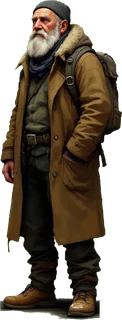
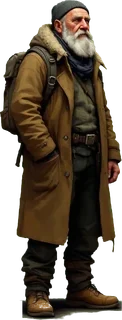
Face painted figures the way they walk, name your own survivor, and let people be clicked to talk
Three player figures were painted facing left while the scene assumes
right, so they walked backwards; they are mirrored to match. Your own
survivor now carries your name like everyone else, and clicking (or Enter
on) any person makes them say a line, or have a short exchange with
whoever else is home. Lines are fixed text chosen in the browser; nothing
about the game changes.

diff --git a/src/scene.ts b/src/scene.ts
@@ -27,7 +27,7 @@ export interface SceneModel {
   items: { food: number; water: number; scrap: number };
   tank: number;
   greenhouse: { lit: boolean; plots: PlotLook[] };
-  // On a visit: the owner's name over their survivor, and you, let in
+  // The owner's name over their survivor; on a visit, also you, let in
   // through the hatch while they're home.
   people?: { owner: string; guest: boolean; guestPortrait?: number };
   // The portrait the player picked, which picks their painted figure.
@@ -404,11 +404,11 @@ const paintedBody = (key: string) => SURVIVOR.replace(
 // A survivor, optionally with a name tag that hides while they speak. The
 // tag is sized roughly here and exactly by scene.js. `who` names a resident
 // (for their lines); `paint` picks a painted figure, or the drawn one.
-function survivor(cls: string, x: number, y: number, name?: string, who?: string, paint?: string): string {
+function survivor(cls: string, x: number, y: number, name?: string, who?: string, paint?: string, talk?: string): string {
   const tag = name
     ? `<g class="sv-tag"><rect x="${-(name.length * 3.6 + 7)}" y="-86" width="${name.length * 7.2 + 14}" height="17" rx="4"/><text x="0" y="-74" text-anchor="middle">${escapeText(name)}</text></g>`
     : "";
-  return `<g class="${cls}${paint ? " sv--painted" : ""}"${who ? ` data-who="${who}"` : ""} data-x="${x}" data-y="${y}" transform="translate(${x} ${y})">${paint ? paintedBody(paint) : SURVIVOR}${tag}</g>`;
+  return `<g class="${cls}${paint ? " sv--painted" : ""}"${who ? ` data-who="${who}"` : ""}${talk ? ` data-talk="${talk}"` : ""} data-x="${x}" data-y="${y}" transform="translate(${x} ${y})"><rect class="sv-hit" x="-22" y="-70" width="44" height="72"/>${paint ? paintedBody(paint) : SURVIVOR}${tag}</g>`;
 }
 
 // The painted ladder tile holds three rungs; stretched a little so they're a
@@ -493,11 +493,11 @@ ${r.facility?`<g class="sc-room-label"><rect x="${r.x+6}" y="${r.y+6}" width="11
   <g class="eq-hatch" transform="translate(${L.spot.hatch!.x+40} ${L.floors.surface}) scale(-1 1)">${hatchArt(m.sealed,m.tiers?.gate??1,m.doorCondition??1)}</g>
   <g class="sc-visitors" aria-hidden="true"></g>
   ${
-    m.occupied ? survivor("sv", start.x, L.floors[start.floor], m.people?.owner, undefined, m.portrait ? playerFigure(m.portrait) : undefined) : ""
+    m.occupied ? survivor("sv", start.x, L.floors[start.floor], m.people?.owner, undefined, m.portrait ? playerFigure(m.portrait) : undefined, m.residents ? "you" : "host") : ""
   }
-  ${m.occupied && m.people?.guest ? survivor("sv sv--guest", L.spot.hatch!.x, L.floors.surface, "You", undefined, m.people.guestPortrait ? playerFigure(m.people.guestPortrait) : undefined) : ""}
-  ${m.residents?.includes("toby") ? survivor("sv sv--resident sv--toby", L.spot.purifier!.x, L.floors[L.spot.purifier!.floor], "Toby", "toby", "toby") : ""}
-  ${m.residents?.includes("mags") ? survivor("sv sv--resident sv--mags", L.spot.scrap!.x, L.floors[L.spot.scrap!.floor], "Mags", "mags", "mags") : ""}
+  ${m.occupied && m.people?.guest ? survivor("sv sv--guest", L.spot.hatch!.x, L.floors.surface, "You", undefined, m.people.guestPortrait ? playerFigure(m.people.guestPortrait) : undefined, "guest") : ""}
+  ${m.residents?.includes("toby") ? survivor("sv sv--resident sv--toby", L.spot.purifier!.x, L.floors[L.spot.purifier!.floor], "Toby", "toby", "toby", "toby") : ""}
+  ${m.residents?.includes("mags") ? survivor("sv sv--resident sv--mags", L.spot.scrap!.x, L.floors[L.spot.scrap!.floor], "Mags", "mags", "mags", "mags") : ""}
   ${shades}
 </svg>`;
 }
@@ -511,6 +511,13 @@ function layoutData(L: Layout): string {
 export type Sayings = Record<CoreItemKey, string[]> & Partial<Record<ItemKey,string[]>>;
 // And what anyone else living here says, by who they are.
 export type ResidentSayings = Record<string, Partial<Sayings>>;
+// What each person says when you click them, by who they are ("you", "host",
+// "guest", or a resident), and short exchanges between people who are both
+// there, started by the first speaker.
+export interface Chatter {
+  lines: Record<string, string[]>;
+  chats: { who: string; line: string }[][];
+}
 
 export function renderScene(
   m: SceneModel,
@@ -519,6 +526,7 @@ export function renderScene(
   sayings: Sayings,
   visitors: { id: number; name: string; portrait?: number }[] = [],
   residents: ResidentSayings = {},
+  chatter: Chatter = { lines: {}, chats: [] },
 ): HtmlEscapedString {
   const variant = (L: Layout) => `<div class="sc sc-${L.id}" data-layout='${layoutData(L)}'>
   ${layoutSvg(L, m, `sc-${L.id}`)}
@@ -532,7 +540,7 @@ export function renderScene(
     })
     .join("")}
 </div>`;
-  const json = JSON.stringify({ sayings, visitors, residents }).replace(/</g, "\\u003c");
+  const json = JSON.stringify({ sayings, visitors, residents, chatter }).replace(/</g, "\\u003c");
   return raw(
     `<div class="sc-stage ${state}" id="scene">${variant(baseLayout(WIDE,m))}${variant(baseLayout(TALL,m))}<script type="application/json" class="sc-sayings">${json}</script></div>`,
   ) as HtmlEscapedString;

diff --git a/src/shelterScreen.ts b/src/shelterScreen.ts
@@ -10,7 +10,7 @@ import { securityBand } from "./game/raid.ts";
 import { currentRates } from "./game/resources.ts";
 import { PURIFIER_PLATE, type FragmentId } from "./game/stories.ts";
 import { DESTINATIONS } from "./game/world.ts";
-import { renderScene, type ItemKey, type Sayings, type SceneModel } from "./scene.ts";
+import { renderScene, type Chatter, type ItemKey, type Sayings, type SceneModel } from "./scene.ts";
 import type { InteractionView, Options } from "./interactions.ts";
 import { band, plotStage, portraitSrc, type Band, type PublicShelter } from "./public.ts";
 import { defenceOf, guardsOf, type ShelterView } from "./shelter.ts";
@@ -68,6 +68,7 @@ function ownModel(s: ShelterView, now: number): SceneModel {
     greenhouse: { lit: r.greenhouse, plots: s.plots.map((p) => ({ stage: plotStage(p, now), crop: p.crop })) },
     residents: s.crew.filter((m) => m.who !== "you" && !m.journey).map((m) => m.who),
     portrait: s.portrait,
+    people: { owner: s.owner, guest: false },
   };
 }
 
@@ -98,6 +99,44 @@ function magsSays(l: Look): Partial<Sayings> {
     quarters: ["Biscuit's on the housing. Leave her.", "I don't do people.", "Forty-one households. Now forty-two."],
   };
 }
+
+// What people say when you click them, and the odd exchange between two of
+// them who are both home.
+function ownChatter(l: Look, residents: string[]): Chatter {
+  const low = l.food === "Scarce" || l.food === "Empty" || l.water === "Scarce" || l.water === "Empty";
+  const chats: Chatter["chats"] = [];
+  if (residents.includes("toby")) chats.push(
+    [{ who: "toby", line: "Can I go out with you next time?" }, { who: "you", line: "When the hounds move on." }],
+    [{ who: "you", line: "Written to your mum yet?" }, { who: "toby", line: "Twice. Nowhere to post it." }],
+  );
+  if (residents.includes("mags")) chats.push(
+    [{ who: "mags", line: "Your door hinge is shot." }, { who: "you", line: "It's on the list." }],
+    [{ who: "you", line: "Need anything, Mags?" }, { who: "mags", line: "Scrap. And quiet." }],
+  );
+  if (residents.includes("toby") && residents.includes("mags")) chats.push(
+    [{ who: "mags", line: "Boy. Small spanner." }, { who: "toby", line: "It's Toby." }],
+    [{ who: "toby", line: "How old's Biscuit?" }, { who: "mags", line: "Older than you. Better manners." }],
+  );
+  return {
+    lines: {
+      you: [low ? "We need supplies. Soon." : "We're doing all right.", "One more day.", "Hold the line.", "Someone's got to run this place."],
+      toby: ["Hi.", "Dev would've liked you.", "I counted the jugs again.", "Mum says keep my head down.", "I can fix that. Probably."],
+      mags: ["What.", "Busy.", "Don't touch the bench.", "Biscuit bites.", "If it's broke, bring it here."],
+    },
+    chats,
+  };
+}
+
+const visitChatter = (owner: string): Chatter => ({
+  lines: {
+    host: ["Don't touch anything.", "Make yourself at home. Sort of.", `Welcome to ${owner}'s place.`, "Mind the ladder."],
+    guest: ["Nice place.", "Quiet down here.", "You've done well with it."],
+  },
+  chats: [
+    [{ who: "guest", line: "How's the water holding?" }, { who: "host", line: "Ask me tomorrow." }],
+    [{ who: "host", line: "Seen any hounds out there?" }, { who: "guest", line: "Not today." }],
+  ],
+});
 
 function visitModel(p: PublicShelter, viewerPortrait?: number): SceneModel {
   return {
@@ -663,7 +702,7 @@ ${actionBar(s, now)}
 ${s.stock.power <= 0 ? html`<p class="sh-blackout">No power. The lights are out.</p>` : ""}
 ${gateLine("At your gate:", ctx.visitors ?? [])}
 ${invites.map((who) => html`<p class="sh-quest"><a class="ui-action" href="#info-quarters">${RESIDENTS[who].name} is waiting for your answer.</a> Ask ${RESIDENTS[who].pronouns.them} to stay from the living quarters.</p>`)}
-${renderScene(model, hotspots(infos), stageState(model, "own"), sayings(ownLook(s, now)), ctx.visitors ?? [], { toby: tobySays(ownLook(s, now)), mags: magsSays(ownLook(s, now)) })}
+${renderScene(model, hotspots(infos), stageState(model, "own"), sayings(ownLook(s, now)), ctx.visitors ?? [], { toby: tobySays(ownLook(s, now)), mags: magsSays(ownLook(s, now)) }, ownChatter(ownLook(s, now), model.residents ?? []))}
 ${readout(infos, ctx.open)}
 ${buildRow(s)}
 ${survivorPanel(s, now, ctx.survivor)}
@@ -742,7 +781,7 @@ ${resourceStrip(
 ${moves(p, o, ctx.requestIds)}
 ${hint}
 ${gateLine("Also at their gate:", ctx.visitors)}
-${renderScene(model, hotspots(infos), stageState(model, "visit"), sayings(visitLook(p)), ctx.visitors)}
+${renderScene(model, hotspots(infos), stageState(model, "visit"), sayings(visitLook(p)), ctx.visitors, {}, visitChatter(p.owner))}
 ${readout(infos)}
 <section id="talk"><a href="/social?channel=shelter:${p.id}">Open shelter messages</a></section>
 </div>`;

diff --git a/static/scene.js b/static/scene.js
@@ -14,8 +14,9 @@
   let sayings = {};
   let visitors = [];
   let residents = {};
+  let chatter = { lines: {}, chats: [] };
   try {
-    ({ sayings = {}, visitors = [], residents = {} } = JSON.parse(stage.querySelector(".sc-sayings")?.textContent || "{}"));
+    ({ sayings = {}, visitors = [], residents = {}, chatter = chatter } = JSON.parse(stage.querySelector(".sc-sayings")?.textContent || "{}"));
   } catch {}
   const me = stage.closest(".sh")?.dataset.me;
 
@@ -295,6 +296,84 @@
       }
     }
   });
+
+  // ---- clicking someone: they stop and say something, or turn to whoever
+  // else is home and the two of them have a word
+
+  const talker = (s, who) => s.agents.find((a) => a.sv.dataset.talk === who);
+  const pick = (list) => list[Math.floor(Math.random() * list.length)];
+
+  function speak(s, a, line, ms, done = () => {}) {
+    a.st.queue = [{ type: "pause", ms }];
+    a.st.mode = "idle";
+    a.talking = true;
+    bubble(s, a.sv, a.st.x, line, -94, () => {
+      a.talking = false;
+      done();
+    });
+    draw(a);
+  }
+
+  function chat(s, lines) {
+    const [first, second] = lines.map((l) => ({ ...l, a: talker(s, l.who) }));
+    if (!first.a || !second.a) return false;
+    // face each other if they're on the same floor
+    if (Math.abs(first.a.st.y - second.a.st.y) < 1 && first.a.st.x !== second.a.st.x) {
+      first.a.st.face = Math.sign(second.a.st.x - first.a.st.x);
+      second.a.st.face = -first.a.st.face;
+    }
+    // the second waits where they are for their turn
+    second.a.st.queue = [{ type: "pause", ms: 9000 }];
+    speak(s, first.a, first.line, 6000, () => speak(s, second.a, second.line, 3500));
+    return true;
+  }
+
+  function poke(s, a) {
+    const who = a.sv.dataset.talk;
+    const chats = chatter.chats.filter((c) => c.some((l) => l.who === who) && c.every((l) => talker(s, l.who)));
+    if (chats.length && Math.random() < 0.4 && chat(s, pick(chats))) return;
+    const lines = chatter.lines[who];
+    if (lines?.length) speak(s, a, pick(lines), 3500);
+  }
+
+  for (const s of scenes) {
+    for (const a of s.agents) {
+      if (!a.sv.dataset.talk) continue;
+      const name = a.sv.querySelector(".sv-tag text")?.textContent || "this survivor";
+      a.sv.setAttribute("tabindex", "0");
+      a.sv.setAttribute("role", "button");
+      a.sv.setAttribute("aria-label", `Talk to ${name}`);
+      a.sv.addEventListener("keydown", (e) => {
+        if (e.key !== "Enter" && e.key !== " ") return;
+        e.preventDefault();
+        poke(s, a);
+      });
+    }
+    // People stand in front of the things you can click, so a click on a
+    // person goes to them before the hotspot underneath.
+    s.el.addEventListener(
+      "click",
+      (e) => {
+        const a = s.agents.find((x) => {
+          const r = x.sv.dataset.talk && x.sv.querySelector(".sv-hit")?.getBoundingClientRect();
+          return r && e.clientX >= r.left && e.clientX <= r.right && e.clientY >= r.top && e.clientY <= r.bottom;
+        });
+        if (!a) return;
+        e.preventDefault();
+        e.stopPropagation();
+        poke(s, a);
+      },
+      true,
+    );
+  }
+
+  // Now and then two people who are both home have a word on their own.
+  if (chatter.chats.length) setInterval(() => {
+    const s = visible();
+    if (document.hidden || s.agents.some((a) => a.talking)) return;
+    const ready = chatter.chats.filter((c) => c.every((l) => talker(s, l.who)));
+    if (ready.length && Math.random() < 0.5) chat(s, pick(ready));
+  }, 20000);
 
   // ---- inspect panels
 

diff --git a/spec/art.test.ts b/spec/art.test.ts
@@ -133,3 +133,15 @@ it("draws each player in the shelter as the person in their portrait", async () 
   expect(figure(visit, ".sv:not(.sv--guest):not(.sv--resident)")).toBe(ownerFigure);
   expect(figure(visit, ".sv--guest")).toBe(guestFigure);
 });
+
+// Everyone in the scene has their name over their head, your own survivor
+// included, and anyone you can click to talk to has something to say.
+it("names everyone in the shelter scene and gives each of them lines", async () => {
+  const me = await register(`spec_n${tag}`);
+  const doc = await page("/", me.cookie);
+  const you = [...doc.querySelectorAll(".sc-svg .sv:not(.sv--resident)")];
+  expect(you).toHaveLength(2);
+  for (const sv of you) expect(sv.querySelector(".sv-tag")?.textContent?.trim()).toBe(`spec_n${tag}`);
+  const { chatter } = JSON.parse(doc.querySelector(".sc-sayings")!.textContent!);
+  for (const sv of doc.querySelectorAll(".sc-svg .sv[data-talk]")) expect(chatter.lines[sv.getAttribute("data-talk")!].length).toBeGreaterThan(0);
+});

diff --git a/static/shelter.css b/static/shelter.css
@@ -689,3 +689,10 @@
 .pc-unfriend { margin-top: 1rem; }
 .pc-unfriend button { min-height: 44px; }
 @media (max-width: 420px) { .pc-head { grid-template-columns: 64px 1fr; } .pc-face { width: 64px; height: 64px; } }
+
+/* clicking a person makes them say something (scene.js); the box is wider
+   than the figure so it's an easy target */
+.sc-svg .sv-hit { fill: transparent; pointer-events: none; }
+.sh.js .sc-svg .sv[data-talk] .sv-hit { pointer-events: all; cursor: pointer; }
+.sc-svg .sv:focus { outline: none; }
+.sc-svg .sv:focus-visible .sv-hit { stroke: var(--amber); stroke-width: 2; stroke-dasharray: 4 3; }
